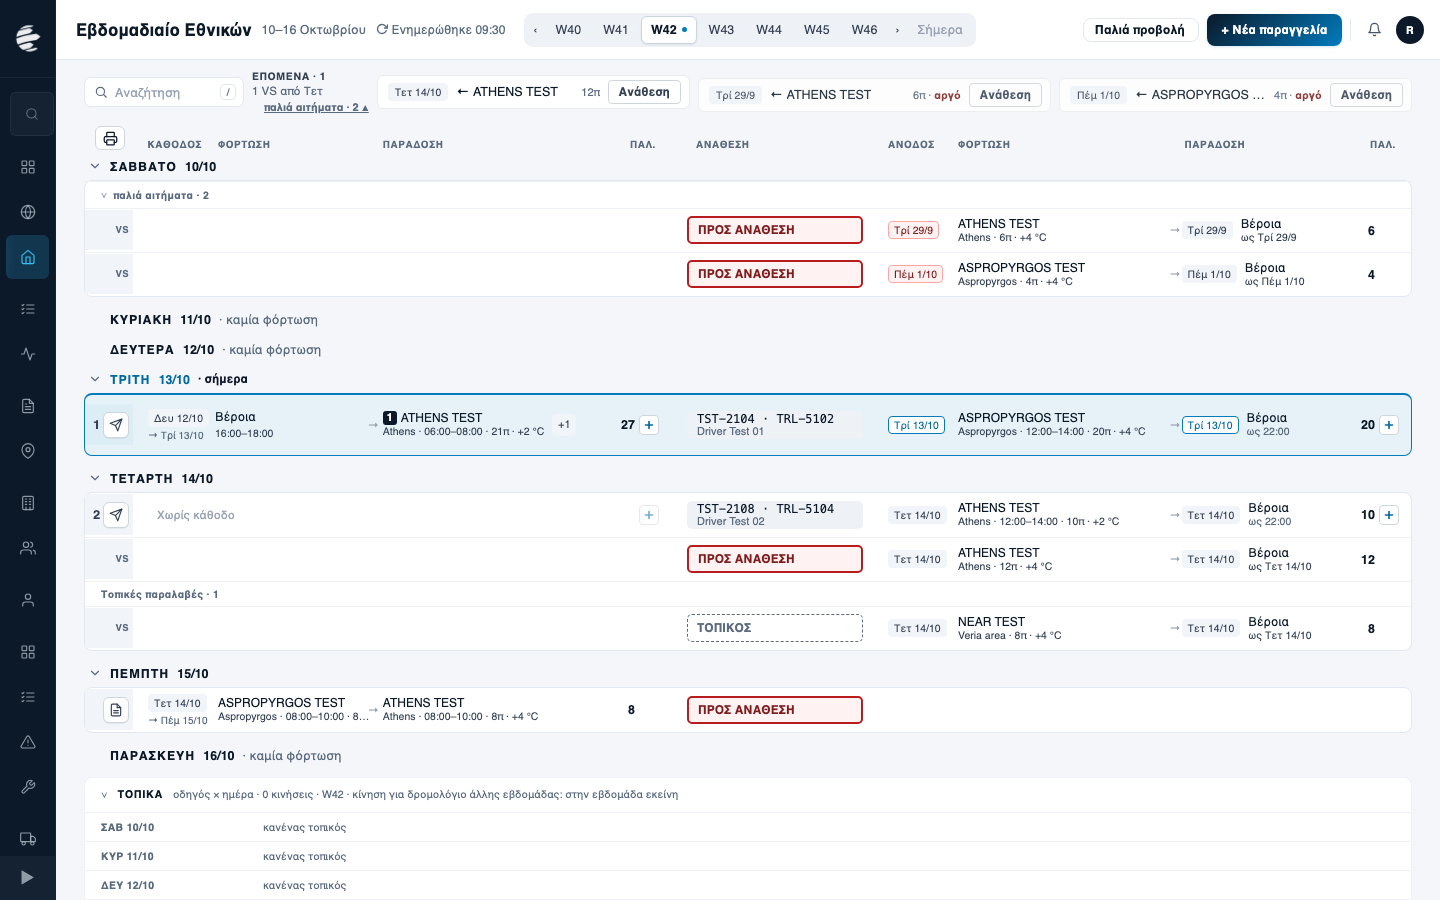
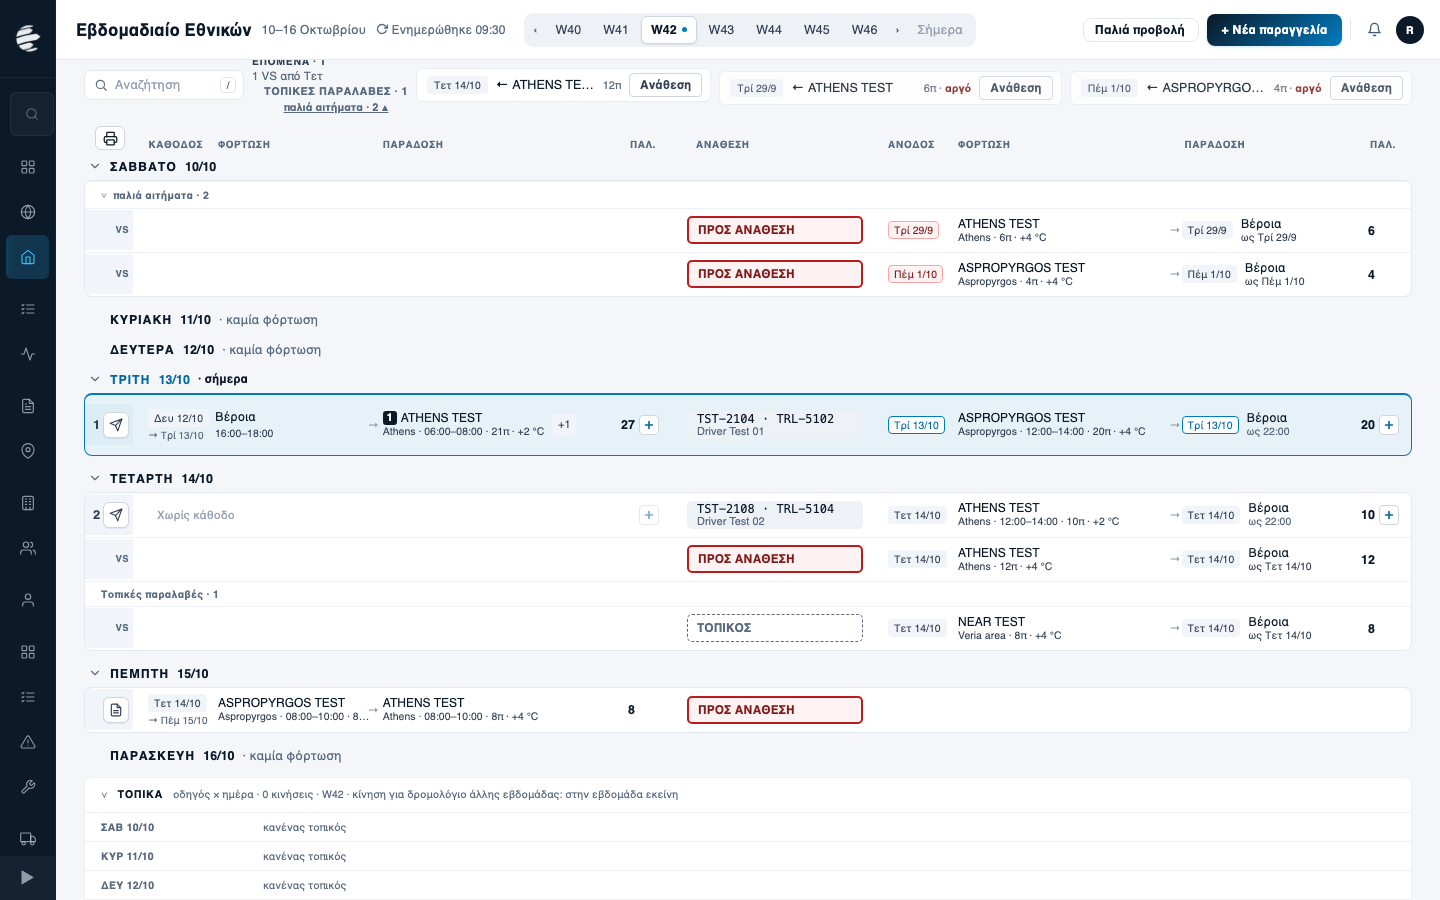
fix(wn5): code review high — ΕΠΟΜΕΝΑ says the local pickups it leaves out, reference read retried after a failure, one hub for board and «+»; ?v= / SW_VERSION 1795660000
Board rig truth 1b follows the owner's 25/11 count (ΕΠΟΜΕΝΑ = the week's own, old beside it).

diff --git a/tests/critics/wn5-board-rig.js b/tests/critics/wn5-board-rig.js
@@ -3700,6 +3700,7 @@ SCN.truth = async (browser, origin) => {
     const hd = document.querySelector('#content .wn5 .wn5-q .wi4-q-hd > span');
     const hub = document.querySelector('#content .wn5 .wn5-hub-s');
     return { week: (document.querySelector('#content .wn5') || {}).dataset.week, days, q: hd ? hd.textContent.replace(/\s+/g, ' ').trim() : null,
+      old: Number((document.querySelector('#content .wn5 .wn5-q button.wn5-q-old') || { dataset: {} }).dataset.qOld || 0),
       cards: document.querySelectorAll('#content .wn5 .wn5-qcard').length, hub: hub ? hub.textContent.replace(/\s+/g, ' ').trim() : null };
   });
   const go = async (n, sat) => { await page.evaluate((w) => WN5._week(w), n); return until(page, (d) => { const r = document.querySelector('#content .wn5'); return r && r.dataset.week === d && r.dataset.state === 'ok'; }, sat); };
@@ -3710,13 +3711,14 @@ SCN.truth = async (browser, origin) => {
   ok(scn, '1a W42 (current): the load of Mon 5/10 is carried to Sat 10/10, the one of Wed 14/10 stands on its day, the one of Mon 19/10 is not here',
     JSON.stringify(w42.days['2026-10-10']) === '[9101]' && JSON.stringify(w42.days['2026-10-14']) === '[9102]' && !all(w42).includes(9103), w42.days);
   // 087 (owner answer 1, #167): a VS waiting for its national truck is in ONE place, «ΠΡΟΣ ΑΝΑΘΕΣΗ» — never on the shelf too
-  ok(scn, '1b W42: ΕΠΟΜΕΝΑ · 2, the two loads the week shows; no shelf for them (087: one place)', /ΕΠΟΜΕΝΑ · 2$/.test(w42.q || '') && !w42.hub, { q: w42.q, hub: w42.hub });
+  // owner 25/11 (item D): «ΕΠΟΜΕΝΑ · N» counts the week's own; the load carried from Mon 5/10 is «παλιά αιτήματα · 1» beside it
+  ok(scn, '1b W42: ΕΠΟΜΕΝΑ · 1 + «παλιά αιτήματα · 1», the two loads the week shows; no shelf for them (087: one place) — main: ΕΠΟΜΕΝΑ · 2', /ΕΠΟΜΕΝΑ · 1$/.test(w42.q || '') && w42.old === 1 && !w42.hub, { q: w42.q, old: w42.old, hub: w42.hub });
   // ── a later week W44: the base still sends all three; none of them is a load of W44
   const at44 = await go(44, '2026-10-24');
   const w44 = await look();
   ok(scn, '1a W44 (later week): no load of another week anywhere; the one ready Mon 26/10 that loads Tue 20/10 (in no earlier board) stands on Sat 24/10, never on no day — main: all four on Sat 24/10',
     at44 && JSON.stringify(w44.days['2026-10-24']) === '[9104]' && all(w44).length === 1, w44.days);
-  ok(scn, '1b W44: ΕΠΟΜΕΝΑ · 1, no shelf (087)', at44 && /ΕΠΟΜΕΝΑ · 1$/.test(w44.q || '') && !w44.hub, { q: w44.q, hub: w44.hub });
+  ok(scn, '1b W44: ΕΠΟΜΕΝΑ · κανένα + «παλιά αιτήματα · 1» (it loads Tue 20/10, before the week), no shelf (087) — main: ΕΠΟΜΕΝΑ · 1', at44 && /ΕΠΟΜΕΝΑ · κανένα$/.test(w44.q || '') && w44.old === 1 && !w44.hub, { q: w44.q, old: w44.old, hub: w44.hub });
   // ── W43: only the load of Mon 19/10, on Mon 19/10
   const at43 = await go(43, '2026-10-17');
   const w43 = await look();

diff --git a/app.html b/app.html
@@ -12,7 +12,7 @@
 <!-- DM Sans 600/700: το TRIP PnL (Figma 28/8) ζητά πραγματικά SemiBold/Bold
      ποσά — χωρίς αυτά ο browser συνθέτει faux-bold απ' το 500. -->
 <link href="https://fonts.googleapis.com/css2?family=Syne:wght@400;500;600;700;800&family=DM+Sans:wght@300;400;500;600;700&family=DM+Mono:wght@400;500&display=swap" rel="stylesheet">
-<link rel="stylesheet" href="assets/style.css?v=1795640000">
+<link rel="stylesheet" href="assets/style.css?v=1795660000">
 <link rel="stylesheet" href="assets/route-diagram.css?v=1794420000">
 </head>
 <body>
@@ -114,7 +114,7 @@
 <script src="core/dkv-parser.js?v=1794030000"></script>
 <script src="core/constants.js?v=1793820000"></script>
 <script src="core/auth.js?v=1791464457"></script>
-<script src="core/api.js?v=1793482508"></script>
+<script src="core/api.js?v=1795660000"></script>
 <!-- 2a. National v5 (F4α): the one client of /plan/* — inert at load, used only by the v5 board (FEATURES.WN_V5). -->
 <script src="core/plan-api.js?v=1794540000"></script>
 <!-- 2b. National v5 F5 (FE-1): PlanConfig.load() = has day L happened (GET /plan/config); inert at load. -->
@@ -160,7 +160,7 @@
 <script src="core/wi4-logic.js?v=1794770000"></script>
 <script src="core/wi4-presence.js?v=1791699986"></script>
 <!-- 2c. Weekly National v5 (F4α): pure rules of the v5 board (no DOM, no Date.now) — inert at load. -->
-<script src="core/wn5-logic.js?v=1794770000"></script>
+<script src="core/wn5-logic.js?v=1795660000"></script>
 <script src="core/wn5-labels.js?v=1794310000"></script>
 <script src="core/plan-ids.js?v=1793820000"></script>
 <!-- 2d. Route diagram (owner 8/11): one shared vertical route of an order / RT for Weekly National v5 and the
@@ -187,8 +187,8 @@
   <script src="modules/orders_intl_group.js?v=1795640000"></script>
 <script src="modules/orders_natl.js?v=1794190000"></script>
 <!-- 3a. Weekly National v5 (F4α): inert while FEATURES.WN_V5 is 'off' (one seam line in modules/weekly_natl.js). -->
-<script src="modules/weekly_natl_v5.js?v=1794580000"></script>
-<script src="modules/wn5_actions.js?v=1795640000"></script>
+<script src="modules/weekly_natl_v5.js?v=1795660000"></script>
+<script src="modules/wn5_actions.js?v=1795660000"></script>
 <script src="modules/wn5_assign.js?v=1795640000"></script>
 <script src="modules/wn5_veroia.js?v=1794310000"></script>
 <script src="modules/wn5_forms.js?v=1795640000"></script>

diff --git a/modules/weekly_natl_v5.js b/modules/weekly_natl_v5.js
@@ -844,7 +844,10 @@ function _qbandHTML(m, known) {
   // «παλιά αιτήματα · N ▾», whose cards open in place (never hidden, owner 15/11)
   const qOld = m.queue.filter((it) => it.old);
   const q = m.queue.filter((it) => !it.old);
-  const oldBtn = qOld.length ? `<button type="button" class="wi4-link wn5-q-old" data-q-old="${qOld.length}" aria-expanded="${_qOld}" onclick="WN5._qOldTog()">παλιά αιτήματα · ${qOld.length} ${_qOld ? '▴' : '▾'}</button>` : '';
+  // what the count leaves out is said beside it (owner rule 15/11): the local pickups shown this week, in their group
+  const nLoc = m.days.reduce((a, d) => a + d.rows.filter((r) => r.kind === 'unassigned' && r.vs && r.pickupLocal).length, 0);
+  const locTxt = nLoc ? `<span class="wn5-q-old wn5-q-loc" data-q-loc="${nLoc}" title="Στο τέλος της ημέρας τους, «Τοπικές παραλαβές»">τοπικές παραλαβές · ${nLoc}</span>` : '';
+  const oldBtn = locTxt + (qOld.length ? `<button type="button" class="wi4-link wn5-q-old" data-q-old="${qOld.length}" aria-expanded="${_qOld}" onclick="WN5._qOldTog()">παλιά αιτήματα · ${qOld.length} ${_qOld ? '▴' : '▾'}</button>` : '');
   const oldCards = _qOld && qOld.length ? `<div class="wn5-qcards wn5-qcards-old">${qOld.map((it) => _qcardHTML(it, m)).join('')}</div>` : '';
   if (!q.length) return `<div class="wi4-q wn5-q">${search}<div class="wi4-q-hd"><span>ΕΠΟΜΕΝΑ · <span class="wn5-lc">κανένα</span></span>${oldBtn}</div>${oldCards}</div>`;
   // Three cards at 1920 (Figma 2011:7745 / H1). At ≤1600 three cards of ~350px cut the client and its «+N» away

diff --git a/modules/wn5_actions.js b/modules/wn5_actions.js
@@ -1786,9 +1786,11 @@
       // owner 25/11: a VS export picked up near Veroia is the local driver's (WN5L.localPlace, the board's one rule):
       // still offered, marked «τοπική» and after the trucks' own requests. A place without coordinates is not local.
       const co = typeof WN5L !== 'undefined' && typeof WN5 !== 'undefined' && typeof WN5.coordOf === 'function' ? WN5.coordOf() : null;
+      // the board's hub (PlanIds.hub, as _modelOpts), then the cycles' Veroia stop: one hub for the board and this list
+      const hubL = (typeof PlanIds !== 'undefined' && typeof PlanIds.hub === 'function' && PlanIds.hub()) || st.hub;
       const locOf = (it) => (it.nat_from_location_id != null ? it.nat_from_location_id : it.position_location_id);
       for (const g of gs) {
-        g.local = !!co && g.items.every((it) => it.kind === 'vs_export' && WN5L.localPlace(locOf(it), co, st.hub) === true);
+        g.local = !!co && g.items.every((it) => it.kind === 'vs_export' && WN5L.localPlace(locOf(it), co, hubL) === true);
         if (g.local) g.chip = 'τοπική';
       }
       const far = (g) => (g.day && st.day ? Math.abs(_dayDiff(st.day, g.day)) : 1e6);

diff --git a/sw.js b/sw.js
@@ -7,7 +7,7 @@
 //   - Offline banner via postMessage to all clients
 // ═══════════════════════════════════════════════════════════
 
-const SW_VERSION = '1795640000';
+const SW_VERSION = '1795660000';
 
 // Το vendor/leaflet/* ΔΕΝ μπαίνει στο APP_SHELL επίτηδες: το pre-cache στο
 // install θα κατέβαζε 228 KB σε κάθε χρήστη, ακυρώνοντας το lazy loading της

diff --git a/core/api.js b/core/api.js
@@ -1200,6 +1200,11 @@ async function preloadReferenceData() {
     REF_DATA._loading  = null;
     _refDataRevalidate();
     return REF_DATA;
+  }, (e) => {
+    // a failed read is asked again by the next caller (as refLocationsFetch): kept, it rejected every later call until
+    // a page reload, so the national board's «Ανανέωση» could never bring the coordinates (code review high 26/11)
+    REF_DATA._loading = null;
+    throw e;
   });
 
   return REF_DATA._loading;

diff --git a/tests/critics/wn5-local-old-shots.js b/tests/critics/wn5-local-old-shots.js
@@ -49,7 +49,7 @@ async function d01({ browser, origin, shots }) {
   if (shots) await page.screenshot({ path: `${shots}/${TAG}-01-board.png`, fullPage: true });
   const old = await page.$('#content details.wn5-dgrp-old > summary');
   if (old) await old.click();
-  const qo = await page.$('#content .wn5-q-old');
+  const qo = await page.$('#content button.wn5-q-old');
   if (qo) await qo.click();
   await page.waitForTimeout(200);
   facts('02-old-open', await view(page));

diff --git a/docs/sessions/2026-11-26-dimitris-wn5-local-old-waiting.md b/docs/sessions/2026-11-26-dimitris-wn5-local-old-waiting.md
@@ -1,0 +1,7 @@
+# 26/11/2026 · dimitris · Εθνικά v5: τοπικές παραλαβές και παλιά αιτήματα (κύμα 2, D)
+
+- **Τι άλλαξε (μόνο οθόνες):** VS εξαγωγή που όλα τα σημεία φόρτωσής της είναι έως 80 km από τη Βέροια μπαίνει στο τέλος της ημέρας της, στην ομάδα «Τοπικές παραλαβές · N», με γκρι «ΤΟΠΙΚΟΣ» και το ίδιο παράθυρο ανάθεσης. Δεν είναι κάρτα στα «ΕΠΟΜΕΝΑ». Στο «+» της ΑΝΟΔΟΥ φαίνεται με σήμα «τοπική» και μπαίνει τελευταία. Τα αιτήματα που είναι από ημέρα πριν την εβδομάδα μαζεύονται στη γραμμή «παλιά αιτήματα · N», που ανοίγει με ένα κλικ, και στη ζώνη ως «παλιά αιτήματα · N ▾».
+- **Ένας κανόνας:** `WN5L.localPlace` στο `core/wn5-logic.js` (haversine ως τον κόμβο, `LOCAL_PICKUP_KM = 80`). Τον διαβάζουν ο πίνακας, τα «ΕΠΟΜΕΝΑ» και το «+». Οι συντεταγμένες έρχονται από το LOCATIONS του facade (`getRefLocations`), γιατί το `/plan/lookups` δεν τις φέρνει. Τόπος χωρίς συντεταγμένες ΔΕΝ είναι τοπικός: η γραμμή του λέγεται μία φορά στη λωρίδα δεδομένων.
+- **Αποφάσεις owner (25/11):** η απόσταση είναι το κριτήριο («Yes, by distance»). Το «ΕΠΟΜΕΝΑ · N» μετρά μόνο την εβδομάδα και τα παλιά φαίνονται δίπλα του («Μόνο της εβδομάδας»).
+- **Μετρήσεις:** στη βάση, οι 14 τόποι φόρτωσης VS εξαγωγής που περιμένουν (W47/W48) είναι από 13 έως 77 km ή από 198 km και πάνω. 13 από τους 1.375 τόπους δεν έχουν συντεταγμένες, κανένας από αυτούς που περιμένουν. Στον ζωντανό W48 με τον νέο κώδικα: «ΕΠΟΜΕΝΑ · 27» γίνεται «5» και «παλιά 4». Από τις 28 σειρές ΠΡΟΣ ΑΝΑΘΕΣΗ, 17 πάνε στα παλιά, 6 στις τοπικές και 5 μένουν.
+- **Μένει:** το σήμα της καρτέλας εβδομάδας («N παραγγελίες χωρίς φορτηγό») το μετρά η βάση (`plan_board.waiting_weeks`) και μετρά ακόμη τις τοπικές παραλαβές. Για να μη τις μετρά χρειάζεται αλλαγή στη βάση, δηλαδή ο ίδιος κανόνας και σε SQL. Περιμένει απόφαση owner.

diff --git a/docs/SESSION.md b/docs/SESSION.md
@@ -12,6 +12,7 @@ What is live (commit, versions, flags) is not kept here: it goes stale within ho
 ## Now (each owner edits only their own lines)
 
 **In flight** (who · branch · topic)
+- dimitris · `feat/wn5-local-old-waiting` · Εθνικά v5, κύμα 2 D (owner 25/11): «Τοπικές παραλαβές» (VS εξαγωγή ≤80 km από τη Βέροια, `WN5L.localPlace`) και «παλιά αιτήματα · N»· «ΕΠΟΜΕΝΑ · N» μόνο της εβδομάδας· μόνο front end, ?v= / SW_VERSION 1795660000· το σήμα καρτέλας θέλει βάση (επόμενο) (`docs/sessions/2026-11-26-dimitris-wn5-local-old-waiting.md`)
 - dimitris · `feat/pallet-capacity-everywhere` · Μετά το #326: καμία οθόνη με δικό της 33. Weekly Διεθνών / v4, φόρμα, σάρωση και Εθνικά v5 (`WN5L.CAP`, σύνθεση) διαβάζουν το `LoadPlan.tally` / `capacity`· μόνο front end, ?v= / SW_VERSION 1794770000· βάση `over_33` εκτός πεδίου (`docs/sessions/2026-11-18-dimitris-pallet-capacity-everywhere.md`)
 - dimitris · `feat/pallet-load-plan` · Φόρμα διεθνούς: χωρητικότητα ανά τύπο παλέτας («24 από 32») + σχέδιο φόρτωσης στο πάνελ, κανόνες owner 17/11 στο `core/load-plan.js`· μόνο front end, ?v= / SW_VERSION 1794760000 (`docs/sessions/2026-11-17-dimitris-pallet-load-plan.md`)
 - dimitris · `feat/impjoin-load-seq` · Εβδομαδιαίο Διεθνών: η εισαγωγή που σέρνεται σε φορτηγό γράφεται τελευταία στη σειρά (113 «Load Seq»), μόνο όταν οι θέσεις του φορτίου μπορούν να χρησιμοποιηθούν (owner 15/11 «οκ»)· μόνο front end (`docs/sessions/2026-11-15-dimitris-impjoin-load-seq.md`)
